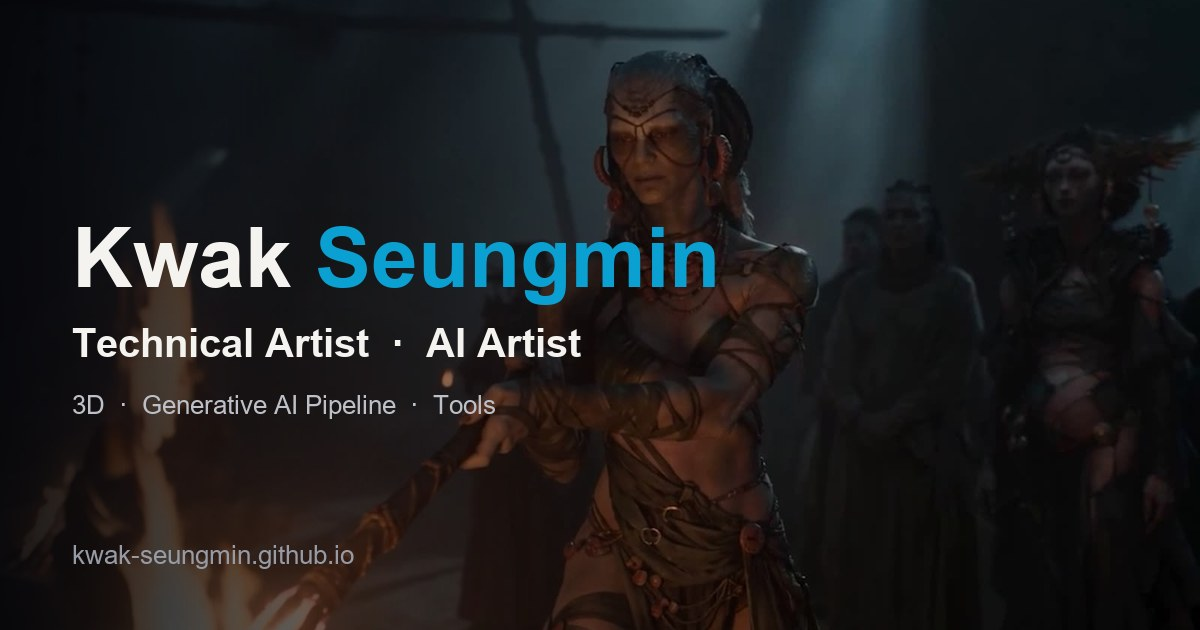
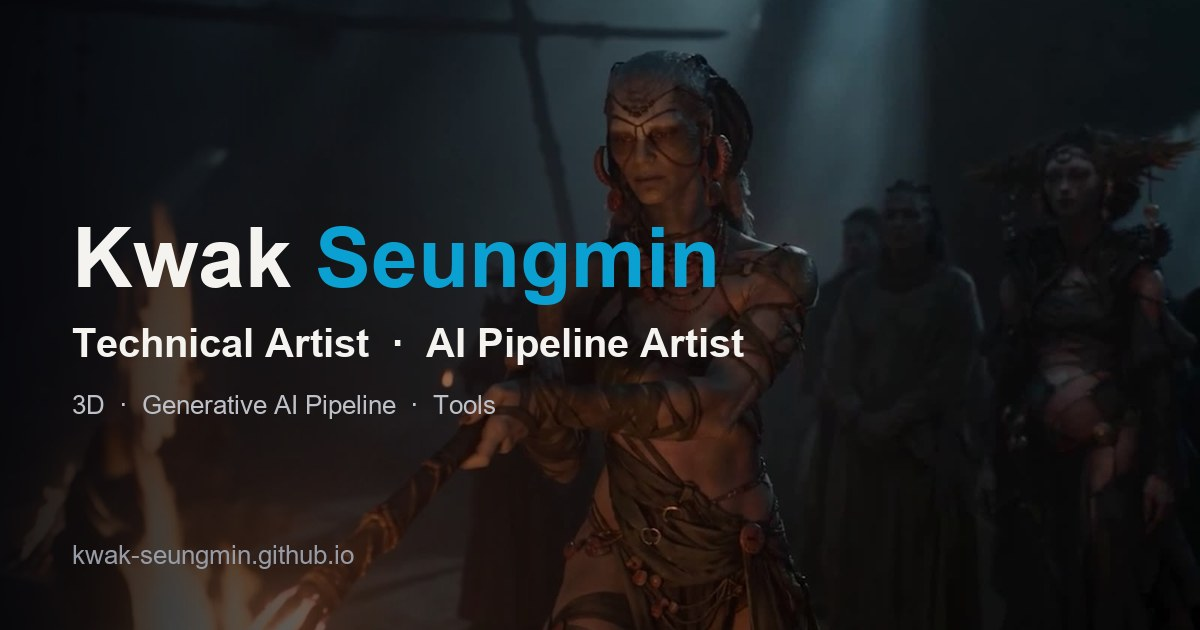
content: world-model simulation city framing, A2Z card, AI Pipeline Artist; more motion
- Work: simulation city for world models is the main item, PCG study as supporting work
- city built with KRAFTON inZOI assets (simplified copy)
- AI Game & Art Pipeline card uses the A2Z GameSpec-Bench title frame
- hero title alternates Technical / AI Pipeline Artist, no cursor, white text
- motion: scroll progress, hero parallax, card tilt + glare, button sheen,
  heading underline draw, experience accent line, fold open animation

Changed region(s): [[0.4008, 0.5127, 0.6167, 0.573]]

diff --git a/index.html b/index.html
@@ -14,22 +14,22 @@
 <meta property="og:site_name" content="Kwak Seungmin">
 <meta property="og:locale" content="ko_KR">
 <meta property="og:url" content="https://kwak-seungmin.github.io/">
-<meta property="og:title" content="곽승민 Kwak Seungmin — Technical Artist · AI Artist">
+<meta property="og:title" content="곽승민 Kwak Seungmin — Technical Artist · AI Pipeline Artist">
 <meta property="og:description" content="3D 모델링과 생성형 AI 파이프라인, 제작 자동화 툴 작업 포트폴리오.">
-<meta property="og:image" content="https://kwak-seungmin.github.io/assets/img/og_image.jpg">
+<meta property="og:image" content="https://kwak-seungmin.github.io/assets/img/og_image.jpg?v=91">
 <meta property="og:image:width" content="1200">
 <meta property="og:image:height" content="630">
-<meta property="og:image:alt" content="Kwak Seungmin — Technical Artist · AI Artist">
+<meta property="og:image:alt" content="Kwak Seungmin — Technical Artist · AI Pipeline Artist">
 <meta name="twitter:card" content="summary_large_image">
-<meta name="twitter:title" content="곽승민 Kwak Seungmin — Technical Artist · AI Artist">
+<meta name="twitter:title" content="곽승민 Kwak Seungmin — Technical Artist · AI Pipeline Artist">
 <meta name="twitter:description" content="3D 모델링과 생성형 AI 파이프라인, 제작 자동화 툴 작업 포트폴리오.">
-<meta name="twitter:image" content="https://kwak-seungmin.github.io/assets/img/og_image.jpg">
+<meta name="twitter:image" content="https://kwak-seungmin.github.io/assets/img/og_image.jpg?v=91">
 <link rel="preconnect" href="https://fonts.googleapis.com">
 <link rel="preconnect" href="https://fonts.gstatic.com" crossorigin>
 <link rel="stylesheet" href="https://fonts.googleapis.com/css2?family=Urbanist:wght@300;400;500;600;700;800;900&display=swap">
 <link rel="stylesheet" href="https://cdn.jsdelivr.net/gh/orioncactus/pretendard@v1.3.9/dist/web/variable/pretendardvariable-dynamic-subset.min.css">
-<link rel="stylesheet" href="style.css?v=89">
-<link rel="stylesheet" href="motion.css?v=89">
+<link rel="stylesheet" href="style.css?v=91">
+<link rel="stylesheet" href="motion.css?v=91">
 <script>(function(){var r=document.documentElement;if(window.matchMedia&&matchMedia('(prefers-reduced-motion: reduce)').matches)return;r.classList.add('motion');try{if(!sessionStorage.getItem('ksm-splash'))r.classList.add('splash')}catch(e){}})();</script>
 </head>
 <body>
@@ -59,7 +59,7 @@
   <div class="intro-container">
     <div class="container">
       <h1>Kwak <span>Seungmin</span></h1>
-      <p class="intro-subtitle"><span id="typed"></span><span class="cursor">|</span> Artist</p>
+      <p class="intro-subtitle"><span id="typed"></span> Artist</p>
       <div class="intro-actions">
         <a class="btn btn-solid" href="#portfolio">Portfolio 보기</a>
         <a class="btn" href="assets/docs/곽승민_포트폴리오.pdf?v=87" target="_blank" rel="noopener">Portfolio PDF</a>
@@ -85,9 +85,8 @@
 
     <div class="portfolio-grid">
       <div class="portfolio-item" data-cat="pipeline" data-project="aiartpipeline">
-        <img src="assets/img/aiartpipeline_hero.jpg" alt="AI Game &amp; Art Pipeline">
+        <img src="assets/img/aipipeline_a2z_card.jpg?v=91" alt="KRAFTON A2Z GameSpec-Bench — AI Game &amp; Art Pipeline">
         <span class="play-badge">▶ 8 Videos</span>
-        <span class="pf-logo"><b>AI GAME &amp; ART</b><i>PIPELINE</i></span>
         <div class="portfolio-info"><h4>AI Game &amp; Art Pipeline</h4><p>Tool / Automation</p></div>
       </div>
       <div class="portfolio-item" data-cat="3d ai team" data-project="naevis">
@@ -667,34 +666,36 @@ coding agent implements the GDD in a shared Phaser starter project
       </div>
     </details>
 
-    <!-- ── 개인 R&D · PCG (접고 펼치기) ── -->
+    <!-- ── 월드모델 시뮬레이션 도시 + PCG 학습 (접고 펼치기) ── -->
     <details class="pipe-fold rnd-fold" id="pcg-rnd">
       <summary>
         <div class="paper-tags">
-          <span class="paper-tag">Personal R&amp;D</span>
+          <span class="paper-tag">World Model</span>
           <span class="paper-venue">Unreal Engine 5 · PCG · 2026</span>
         </div>
-        <h3 class="paper-title"><b>PCG R&amp;D</b> — 절차적 도시와 환경</h3>
-        <p class="paper-oneline kr">회사 업무와 별개로 진행한 개인 학습입니다. 언리얼 PCG로 도시를 만들고, 절차적 환경을 시네마틱으로 연출해 보았습니다.</p>
-        <div class="chips"><span>Unreal City PCG</span><span>PCG City Generator</span><span>Cinematic Test</span></div>
-        <span class="paper-toggle"><span class="pt-open">R&amp;D 자세히 보기</span><span class="pt-close">접기</span></span>
+        <h3 class="paper-title"><b>Simulation City</b> — 월드모델용 시뮬레이션 도시 배경</h3>
+        <p class="paper-oneline kr">월드모델에 쓸 시뮬레이션 도시 배경을 언리얼 엔진 5로 제작했습니다. 이를 위해 언리얼 PCG를 따로 공부하며 도시 생성기와 환경 연출을 함께 실험했습니다.</p>
+        <div class="chips"><span>Simulation City</span><span>KRAFTON inZOI 에셋</span><span>PCG 학습</span></div>
+        <span class="paper-toggle"><span class="pt-open">자세히 보기</span><span class="pt-close">접기</span></span>
       </summary>
       <div class="pipe-fold-body">
 
         <article class="rnd-item">
           <div class="rnd-head">
-            <h4>언리얼 도시 PCG 제작</h4>
+            <h4>월드모델용 시뮬레이션 도시 배경</h4>
             <span class="t-year">UE 5.5 · 2026.09–10</span>
           </div>
-          <p class="kr">절차적으로 생성된 도시 데이터를 언리얼 엔진 5로 옮겨, 엔진 안에서 살아 움직이는 도시로 확장했습니다. 건물 외벽 셰이더를 HLSL로 포팅해 창문·실내 시차·블라인드를 재현하고, 가로수 37,390그루와 소품 58종 약 27만 개를 HISM 인스턴스로 배치했습니다.</p>
-          <p class="kr">차선·회전 연결과 90초 신호 계획을 따라 달리는 차량 교통, 횡단보도 신호에 맞춰 건너는 보행자, Mass 기반 군중 회피를 붙였습니다. 보행자·차량과 가로 소품 일부는 크래프톤 inZOI 에셋으로 교체했고, 신호등·가로등·간판 같은 나머지 소품은 고품질 메시로 다시 만들었습니다.</p>
+          <p class="kr">월드모델에 쓸 시뮬레이션 도시 배경을 언리얼 엔진 5로 제작했습니다. 건물 외벽 셰이더를 HLSL로 포팅해 창문·실내 시차·블라인드를 재현하고, 가로수 37,390그루와 소품 58종 약 27만 개를 HISM 인스턴스로 배치했습니다.</p>
+          <p class="kr">도시는 크래프톤 inZOI 에셋들로 만들었습니다.</p>
           <div class="rnd-media">
             <figure><img src="assets/img/pcg/city_import_aerial.jpg?v=89" alt="건물 블록과 도로망 항공 사선" loading="lazy"><figcaption>건물 블록과 도로망</figcaption></figure>
             <figure><img src="assets/img/pcg/city_import_mid.jpg?v=89" alt="차량이 달리는 대로와 교차로" loading="lazy"><figcaption>대로 — 신호를 따라 달리는 차량</figcaption></figure>
             <figure><img src="assets/img/pcg/city_import_street.jpg?v=89" alt="고층 건물 외벽과 옥상 설비" loading="lazy"><figcaption>외벽 셰이더 · 옥상 설비 · 간판</figcaption></figure>
           </div>
-          <div class="chips"><span>HLSL 외벽 셰이더</span><span>HISM 인스턴싱</span><span>교통 · 신호 시뮬레이션</span><span>Mass Crowd</span><span>KRAFTON inZOI 에셋</span></div>
+          <div class="chips"><span>World Model</span><span>HLSL 외벽 셰이더</span><span>HISM 인스턴싱</span><span>KRAFTON inZOI 에셋</span></div>
         </article>
+
+        <p class="rnd-sub">이를 위한 PCG 학습</p>
 
         <article class="rnd-item">
           <div class="rnd-head">
@@ -889,7 +890,7 @@ coding agent implements the GDD in a shared Phaser starter project
 <footer>
   <div class="container">
     <span>© 2026 Kwak Seungmin</span>
-    <span>Technical / AI Artist · Seoul</span>
+    <span>Technical / AI Pipeline Artist · Seoul</span>
   </div>
 </footer>
 
@@ -943,8 +944,8 @@ window.GAME_SHOWCASE = [
       specs:[['계획','다중 홉 경로를 그려 확정 · 홉당 0.5초'],['시야','안개 반경 밖은 추정 아이콘'],['변수','운석 1턴 전 예고 → 암초화'],['적재','6칸 선창 · 화물 무게 1~2'],['수확','3초 타이밍 바 + 0.4초 방향 플릭'],['성장','4×5 업그레이드 트리 · 수집 로그 50종']] }
 ];
 </script>
-<script src="projects.js?v=89"></script>
-<script src="main.js?v=89"></script>
-<script src="motion.js?v=90"></script>
+<script src="projects.js?v=91"></script>
+<script src="main.js?v=91"></script>
+<script src="motion.js?v=91"></script>
 </body>
 </html>

diff --git a/motion.css b/motion.css
@@ -39,7 +39,8 @@ html.motion #intro .intro-actions{animation-delay:calc(var(--enter) + .35s);}
 html.motion #intro .video{animation:hero-zoom 2.4s cubic-bezier(.2,.7,.2,1) var(--enter) both;}
 @keyframes rise-in{from{opacity:0;transform:translateY(34px);}to{opacity:1;transform:none;}}
 @keyframes rise-header{from{opacity:0;transform:translateY(-18px);}to{opacity:1;transform:none;}}
-@keyframes hero-zoom{from{opacity:0;transform:scale(1.08);}to{opacity:1;transform:none;}}
+/* transform 은 스크롤 패럴랙스가 쓰므로 등장 줌은 개별 scale 속성으로 */
+@keyframes hero-zoom{from{opacity:0;scale:1.08;}to{opacity:1;scale:1;}}
 
 /* ---------- 스크롤 유도 아이콘 (마우스 + 올라가는 휠) ---------- */
 .scroll-cue{
@@ -71,6 +72,55 @@ html.motion .section-header h2.rv.is-in{clip-path:inset(-10% 0 -10% 0);}
 /* 이미지 카드 — 살짝 확대된 상태에서 제자리로 */
 html.motion .portfolio-item.rv{transform:translateY(40px) scale(.97);}
 html.motion .portfolio-item.rv.is-in{transform:none;}
+
+/* ---------- 스크롤 진행 바 ---------- */
+.scroll-progress{
+  position:fixed;top:0;left:0;right:0;height:2px;z-index:1001;pointer-events:none;
+  background:var(--accent);transform-origin:left;transform:scaleX(0);
+}
+
+/* ---------- 섹션 제목 밑줄이 그려진다 ---------- */
+html.motion .section-header h2.rv::after{
+  content:'';display:block;width:56px;height:3px;margin:14px auto 0;background:var(--accent);
+  transform:scaleX(0);transition:transform .8s cubic-bezier(.2,.7,.2,1) .45s;
+}
+html.motion .section-header h2.rv.is-in::after{transform:scaleX(1);}
+
+/* ---------- 포트폴리오 카드 3D 틸트 + 빛 반사 ---------- */
+html.motion .portfolio-grid{perspective:1200px;}
+html.motion .portfolio-item.tilt-ready{transition:transform .5s cubic-bezier(.2,.7,.2,1),opacity .9s;transition-delay:0s;}
+html.motion .portfolio-item.tilting{transition:transform .08s linear;}
+.portfolio-item .glare{
+  position:absolute;inset:0;z-index:4;pointer-events:none;opacity:0;transition:opacity .3s;
+  background:radial-gradient(circle at var(--gx,50%) var(--gy,50%), rgba(255,255,255,0.18), rgba(255,255,255,0) 55%);
+}
+.portfolio-item:hover .glare{opacity:1;}
+
+/* ---------- 버튼 — 빛이 스치고 지나간다 ---------- */
+html.motion .btn{position:relative;overflow:hidden;}
+html.motion .btn::after{
+  content:'';position:absolute;top:0;bottom:0;left:-60%;width:40%;pointer-events:none;
+  background:linear-gradient(100deg, rgba(255,255,255,0) 0%, rgba(255,255,255,0.28) 50%, rgba(255,255,255,0) 100%);
+  transform:skewX(-20deg);transition:left .6s ease;
+}
+html.motion .btn:hover::after{left:130%;}
+
+/* ---------- 경력 배지 — 등장할 때 왼쪽 강조선이 자란다 ---------- */
+html.motion .exp-row .exp-badge{position:relative;}
+html.motion .exp-row .exp-badge::before{
+  content:'';position:absolute;left:-1px;top:-1px;bottom:-1px;width:3px;background:var(--accent);
+  transform:scaleY(0);transform-origin:top;transition:transform .7s cubic-bezier(.2,.7,.2,1) .25s;
+}
+html.motion .exp-row.is-in .exp-badge::before{transform:scaleY(1);}
+
+/* ---------- 접이식 카드 — 펼칠 때 내용이 내려오며 나타난다 ---------- */
+html.motion details[open] > .paper-body,
+html.motion details[open] > .pipe-fold-body{animation:fold-open .55s cubic-bezier(.2,.7,.2,1);}
+@keyframes fold-open{from{opacity:0;transform:translateY(-12px);}to{opacity:1;transform:none;}}
+
+/* ---------- 툴 아이콘 — 호버 시 살짝 떠오름 ---------- */
+html.motion .tool-item .tool-image{transition:transform .25s ease;}
+html.motion .tool-item:hover .tool-image{transform:translateY(-3px) scale(1.12);}
 
 /* ---------- 메뉴 활성 밑줄 ---------- */
 .nav-menu a{position:relative;}

diff --git a/motion.js b/motion.js
@@ -21,6 +21,50 @@
     window.addEventListener('scroll', hideCue, { passive: true });
   }
 
+  // 상단 스크롤 진행 바 + 히어로 영상 패럴랙스 (한 프레임에 한 번만 계산)
+  const bar = document.createElement('div');
+  bar.className = 'scroll-progress';
+  document.body.appendChild(bar);
+  const heroVideo = intro && intro.querySelector('.video');
+  let ticking = false;
+  const onScrollFrame = () => {
+    ticking = false;
+    const max = document.documentElement.scrollHeight - window.innerHeight;
+    bar.style.transform = `scaleX(${max > 0 ? window.scrollY / max : 0})`;
+    if (heroVideo && window.scrollY < window.innerHeight) {
+      heroVideo.style.transform = `translateY(${window.scrollY * 0.35}px) scale(1.04)`;
+    }
+  };
+  window.addEventListener('scroll', () => {
+    if (!ticking) { ticking = true; requestAnimationFrame(onScrollFrame); }
+  }, { passive: true });
+  onScrollFrame();
+
+  // 포트폴리오 카드 3D 틸트 + 커서를 따라가는 빛 — 마우스가 있는 기기에서만
+  if (window.matchMedia('(hover: hover) and (pointer: fine)').matches) {
+    const MAX_TILT = 6;
+    document.querySelectorAll('.portfolio-item').forEach(card => {
+      const glare = document.createElement('span');
+      glare.className = 'glare';
+      card.appendChild(glare);
+      // 등장 순서용 지연(--d)이 틸트에 걸리지 않도록 첫 진입부터 지연 없는 전환으로
+      card.addEventListener('mouseenter', () => card.classList.add('tilt-ready'));
+      card.addEventListener('mousemove', e => {
+        const r = card.getBoundingClientRect();
+        const px = (e.clientX - r.left) / r.width;
+        const py = (e.clientY - r.top) / r.height;
+        card.classList.add('tilting');
+        card.style.transform = `rotateY(${(px - 0.5) * MAX_TILT * 2}deg) rotateX(${(0.5 - py) * MAX_TILT * 2}deg)`;
+        card.style.setProperty('--gx', `${px * 100}%`);
+        card.style.setProperty('--gy', `${py * 100}%`);
+      });
+      card.addEventListener('mouseleave', () => {
+        card.classList.remove('tilting');
+        card.style.transform = '';
+      });
+    });
+  }
+
   // 스크롤 리빌 대상 — 같은 부모 안의 형제끼리는 순서대로 조금씩 늦게 등장
   const GROUPS = [
     '.section-header h2', '.section-header p', '.section-eyebrow',

diff --git a/style.css b/style.css
@@ -90,11 +90,9 @@ h3{font-family:var(--head);font-size:22px;font-weight:600;line-height:1.2;margin
 }
 #intro h1 span{color:var(--accent);}
 .intro-subtitle{
-  font-family:var(--body);font-size:30px;font-weight:700;line-height:45px;color:var(--soft);
+  font-family:var(--body);font-size:30px;font-weight:700;line-height:45px;color:var(--white);
   min-height:45px;
 }
-.intro-subtitle .cursor{color:var(--accent);font-weight:400;animation:blink 1s steps(1) infinite;}
-@keyframes blink{50%{opacity:0;}}
 .intro-actions{display:flex;flex-wrap:wrap;gap:12px;margin-top:34px;}
 .btn{
   font-family:var(--head);font-size:14px;font-weight:600;
@@ -303,11 +301,14 @@ section{padding:60px 0;}
 .pipe-fold-body{padding:24px 32px 32px;border-top:1px solid rgba(255,255,255,0.08);}
 .pipe-fold-body > .arch{margin-top:0;}
 .pipe-fold-body > .gj{margin:0 0 24px;}
-/* 개인 R&D — 회사 업무와 구분되도록 점선 테두리 */
-.rnd-fold{border-style:dashed;border-left-style:solid;}
+/* 시뮬레이션 도시 · PCG 학습 카드 */
 .rnd-item{padding:26px 0;border-bottom:1px solid rgba(255,255,255,0.08);}
 .rnd-item:first-child{padding-top:4px;}
 .rnd-item:last-child{border-bottom:0;padding-bottom:0;}
+.rnd-sub{
+  margin:30px 0 0;font-family:var(--head);font-size:12px;font-weight:800;letter-spacing:3px;
+  text-transform:uppercase;color:var(--accent);
+}
 .rnd-head{display:flex;justify-content:space-between;align-items:baseline;gap:16px;margin-bottom:12px;}
 .rnd-head h4{font-family:var(--head);font-size:20px;font-weight:700;color:var(--white);}
 .rnd-item p{font-family:var(--kr);font-size:15px;line-height:28px;color:var(--muted);margin-bottom:12px;max-width:1000px;}

diff --git a/main.js b/main.js
@@ -54,7 +54,7 @@ if (heroVideo && window.matchMedia('(min-width:761px)').matches) {
 }
 
 // ---------- 인트로 직함 타이핑 — 'Artist' 는 고정, 앞 단어만 번갈아 쓰고 지운다 ----------
-const TITLES = ['Technical', 'AI'];
+const TITLES = ['Technical', 'AI Pipeline'];
 const TYPE_MS = 90;
 const ERASE_MS = 45;
 const HOLD_MS = 2200;
